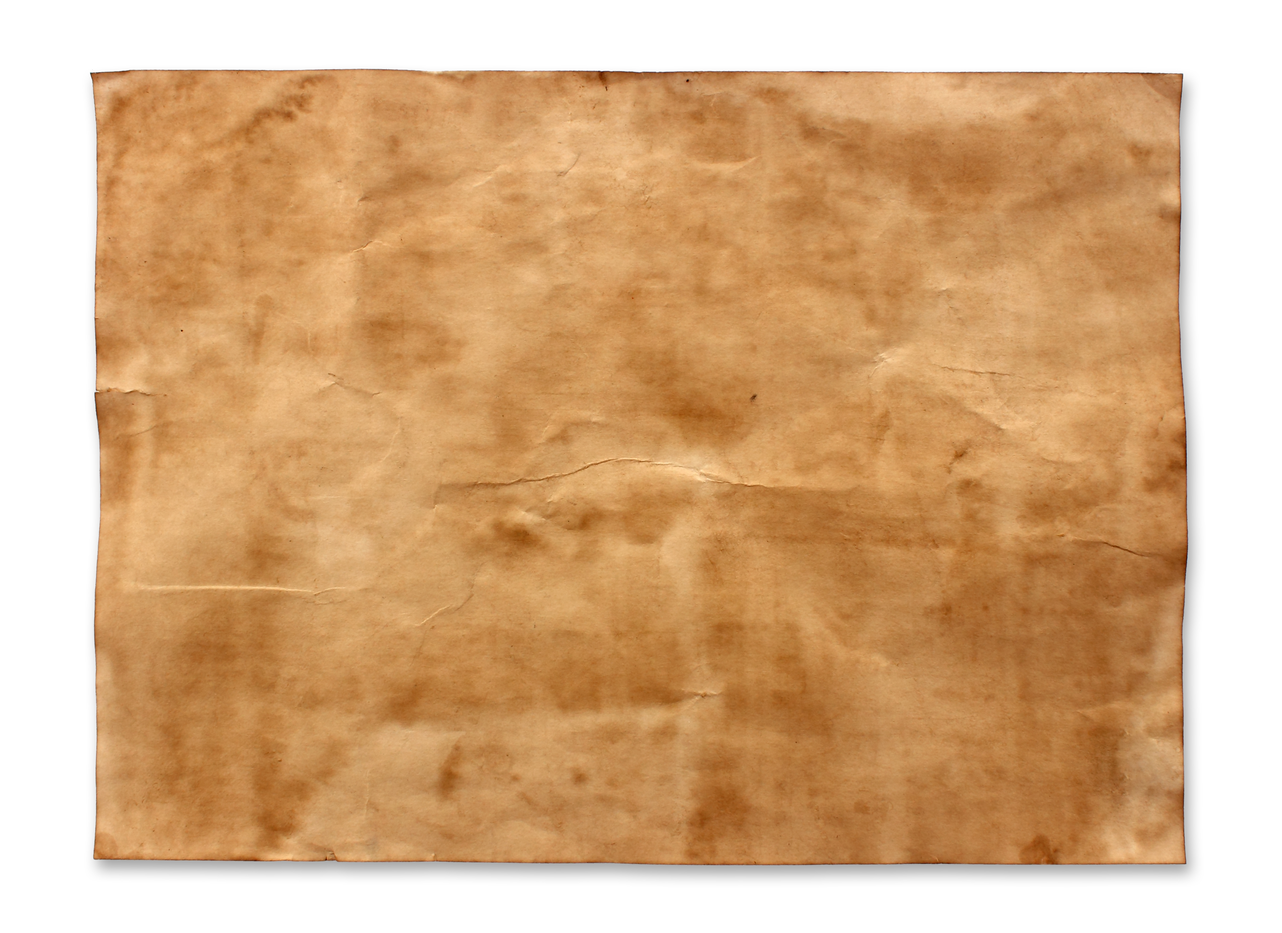
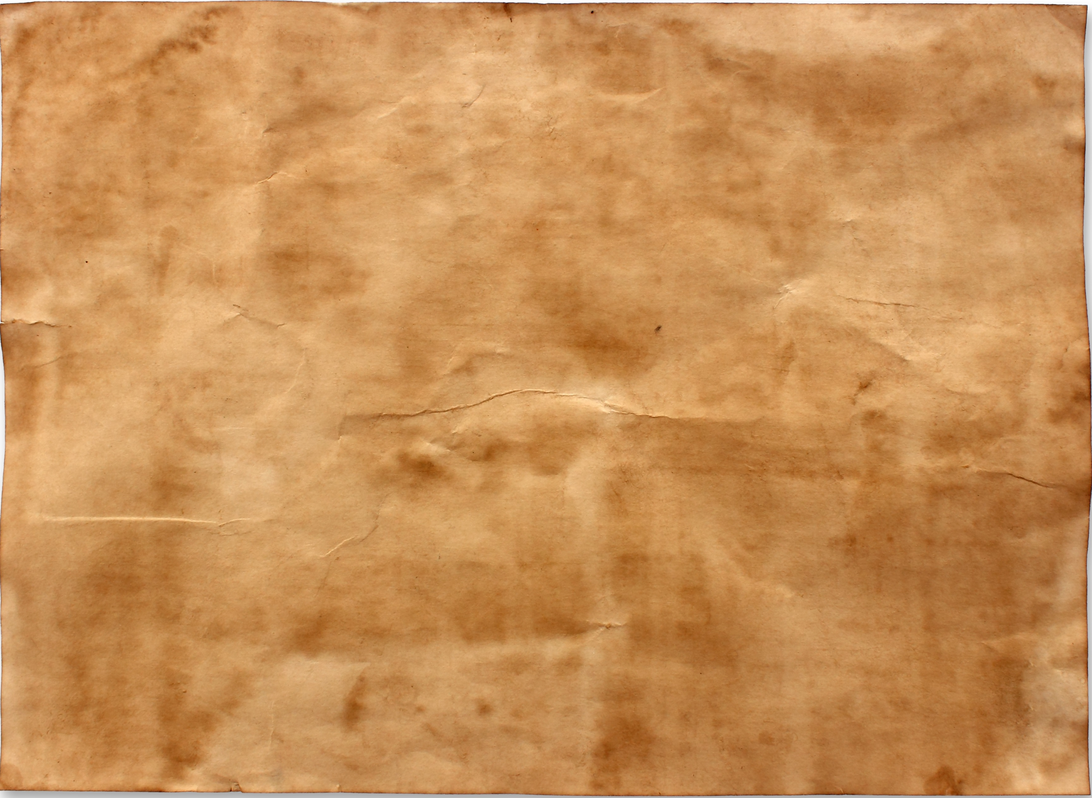
add sheet.jpg to article

diff --git a/src/components/ArticleWrapper/Article/article.scss b/src/components/ArticleWrapper/Article/article.scss
@@ -1,12 +1,12 @@
 .main .article {
     // background-color: aliceblue;
-    // background-image: url("/images/sheet.jpg");
+    background-image: url("../../../../public/images/sheet.jpg");
+    background-size: 100%;
     grid-column-start: 1;
     grid-column-end: 3;
     padding: 20px;
     border-radius: 20px;
     border: 2px solid black;
-    background-color: white;
     width: 100%;
 
     p {

diff --git a/src/components/settingComponents/ChangeLinks/ChangeLinks.scss b/src/components/settingComponents/ChangeLinks/ChangeLinks.scss
@@ -1,0 +1,4 @@
+.jodit-workplace {
+    background-image: url("../../../../public/images/sheet.jpg");
+    background-size: 100%;
+}
